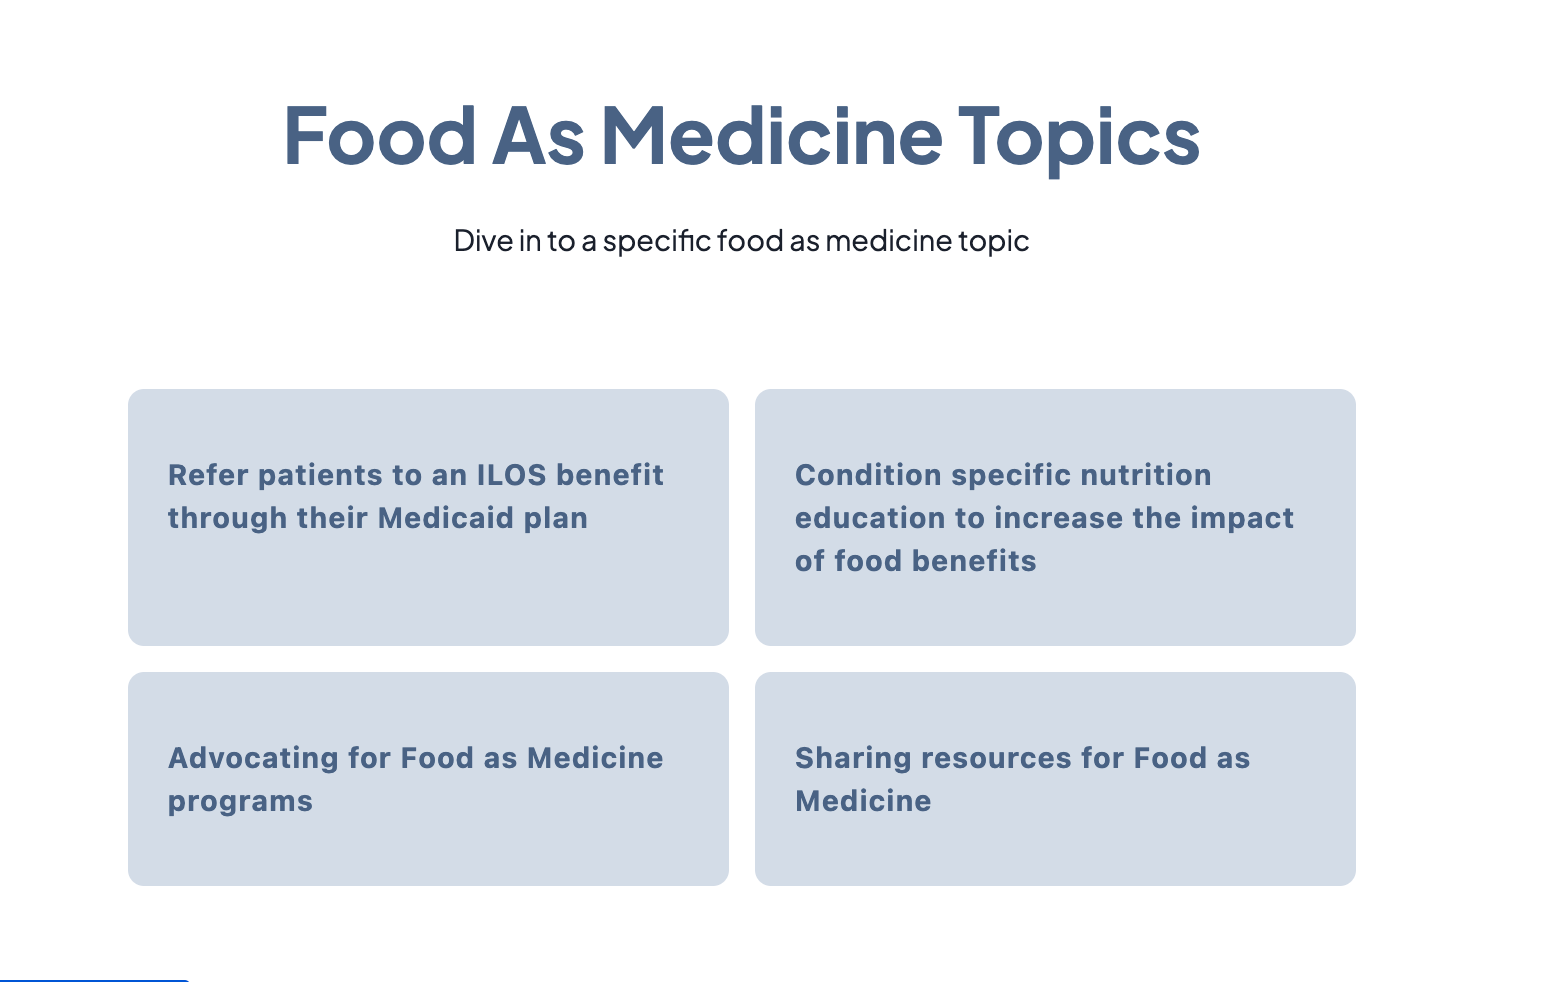
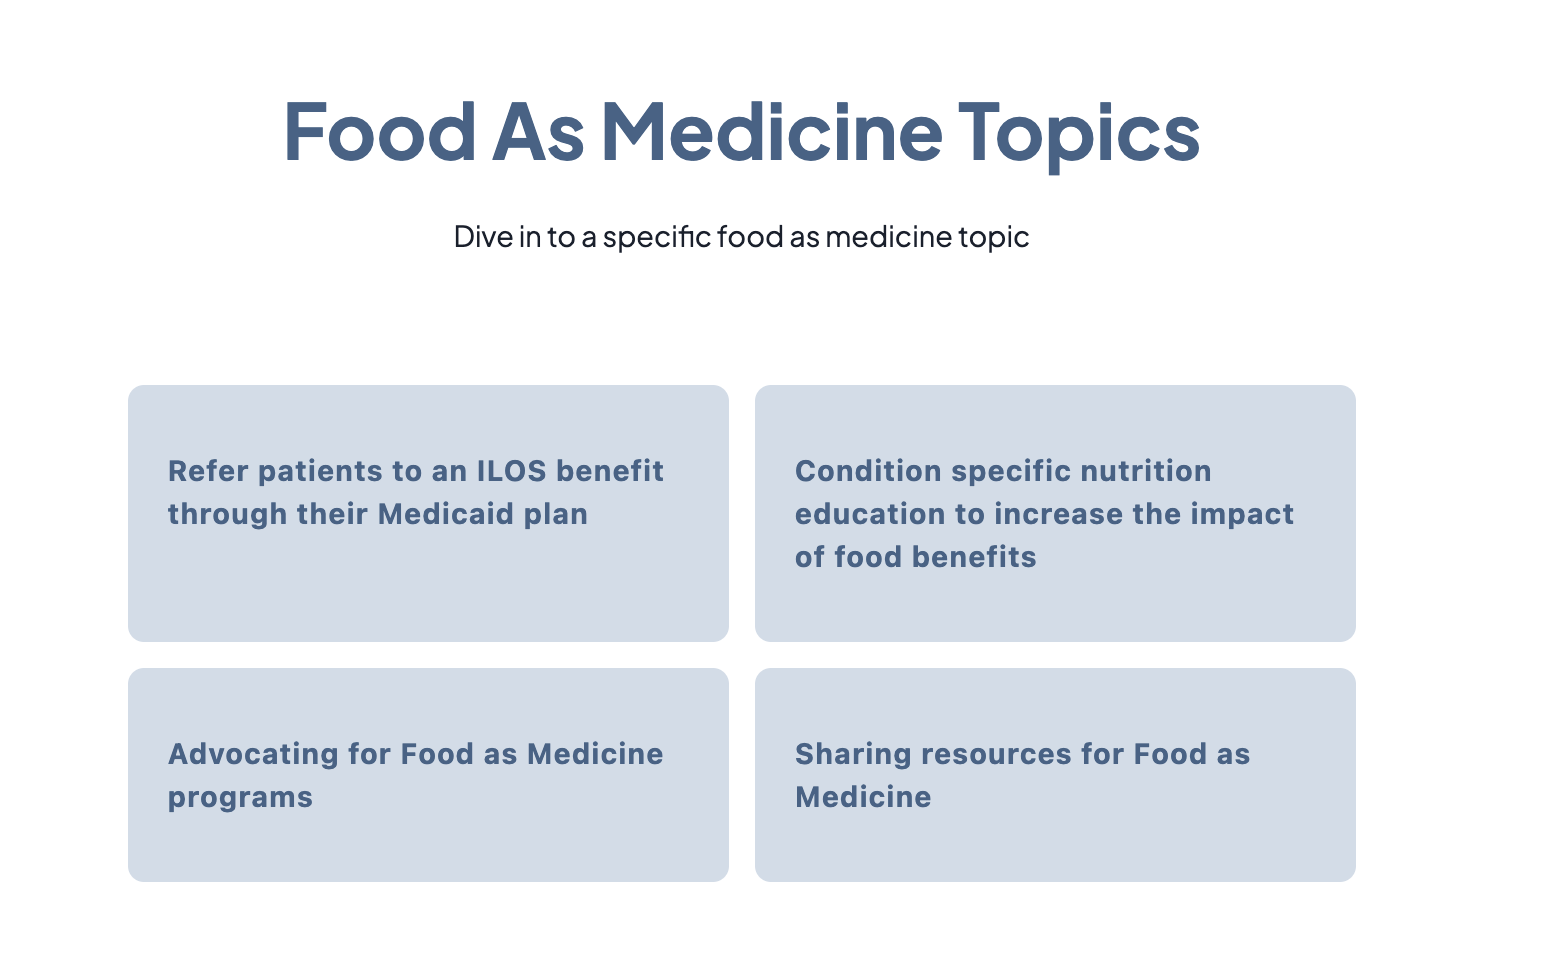
HBOM: pair wireframe/detail figures, fix timeline, trim fam-topics crop; Wearby: fix timeline
- Research figure now shows wireframe.png + wireframe-resource.png side by side
- Brand figure now shows hero.png + detail.png side by side
- Knowledge Hub timeline: Summer 2026 -> May 2026 - Aug 2026
- hbom-fam-topics.png trimmed a few px off the bottom
- Wearby meta: drop "2026-Present", timeline now Feb 2026 - May 2026

diff --git a/projects/knowledge-hub/index.html b/projects/knowledge-hub/index.html
@@ -47,7 +47,7 @@
           </div>
           <div class="meta-item">
             <div class="meta-label">Timeline</div>
-            <div class="meta-value">Summer 2026</div>
+            <div class="meta-value">May 2026 &ndash; Aug 2026</div>
           </div>
           <div class="meta-item">
             <div class="meta-label">Tools</div>
@@ -109,9 +109,14 @@
         </div>
       </div>
 
-      <figure class="figure-80 single-tile-figure" style="margin-top: 2rem;">
-        <div class="single-tile">
-          <img src="../../assets/img/hbom-wireframe.png" alt="Early wireframe exploration for the NVP Knowledge Hub">
+      <figure class="figure-80 two-up-figure" style="margin-top: 2rem;">
+        <div class="two-up-grid">
+          <figure class="two-up-tile">
+            <img src="../../assets/img/hbom-wireframe.png" alt="Early wireframe exploration for the NVP Knowledge Hub">
+          </figure>
+          <figure class="two-up-tile">
+            <img src="../../assets/img/hbom-wireframe-resource.png" alt="Early resource-page wireframe exploration for the NVP Knowledge Hub">
+          </figure>
         </div>
         <figcaption class="figure-caption"><em>early wireframe exploration</em></figcaption>
       </figure>
@@ -214,9 +219,14 @@
         <p style="margin-top: 0.5rem;">The hub matches <span class="text-mint">nutrivp.org</span> in palette, typography, and header/footer, so it reads as an extension of the existing site rather than a separate tool bolted on beside it.</p>
       </div>
 
-      <figure class="figure-80 single-tile-figure" style="margin-top: 1.5rem;">
-        <div class="single-tile">
-          <img src="../../assets/img/hbom-hero.png" alt="NVP Knowledge Hub, matched to the nutrivp.org brand">
+      <figure class="figure-80 two-up-figure" style="margin-top: 1.5rem;">
+        <div class="two-up-grid">
+          <figure class="two-up-tile">
+            <img src="../../assets/img/hbom-hero.png" alt="NVP Knowledge Hub, matched to the nutrivp.org brand">
+          </figure>
+          <figure class="two-up-tile">
+            <img src="../../assets/img/hbom-detail.png" alt="Resource detail page, matched to the nutrivp.org brand">
+          </figure>
         </div>
         <figcaption class="figure-caption"><em>the hub, matched to the nutrivp.org brand</em></figcaption>
       </figure>

diff --git a/projects/ootd/index.html b/projects/ootd/index.html
@@ -58,11 +58,11 @@
         </div>
         <div class="meta-item">
           <div class="meta-label">Project</div>
-          <div class="meta-value">Concept · Individual project · 2026–Present</div>
+          <div class="meta-value">Concept · Individual project</div>
         </div>
         <div class="meta-item">
           <div class="meta-label">Timeline</div>
-          <div class="meta-value">Feb 2026 - Present</div>
+          <div class="meta-value">Feb 2026 - May 2026</div>
         </div>
         <div class="meta-item">
           <div class="meta-label">Tools Used</div>
